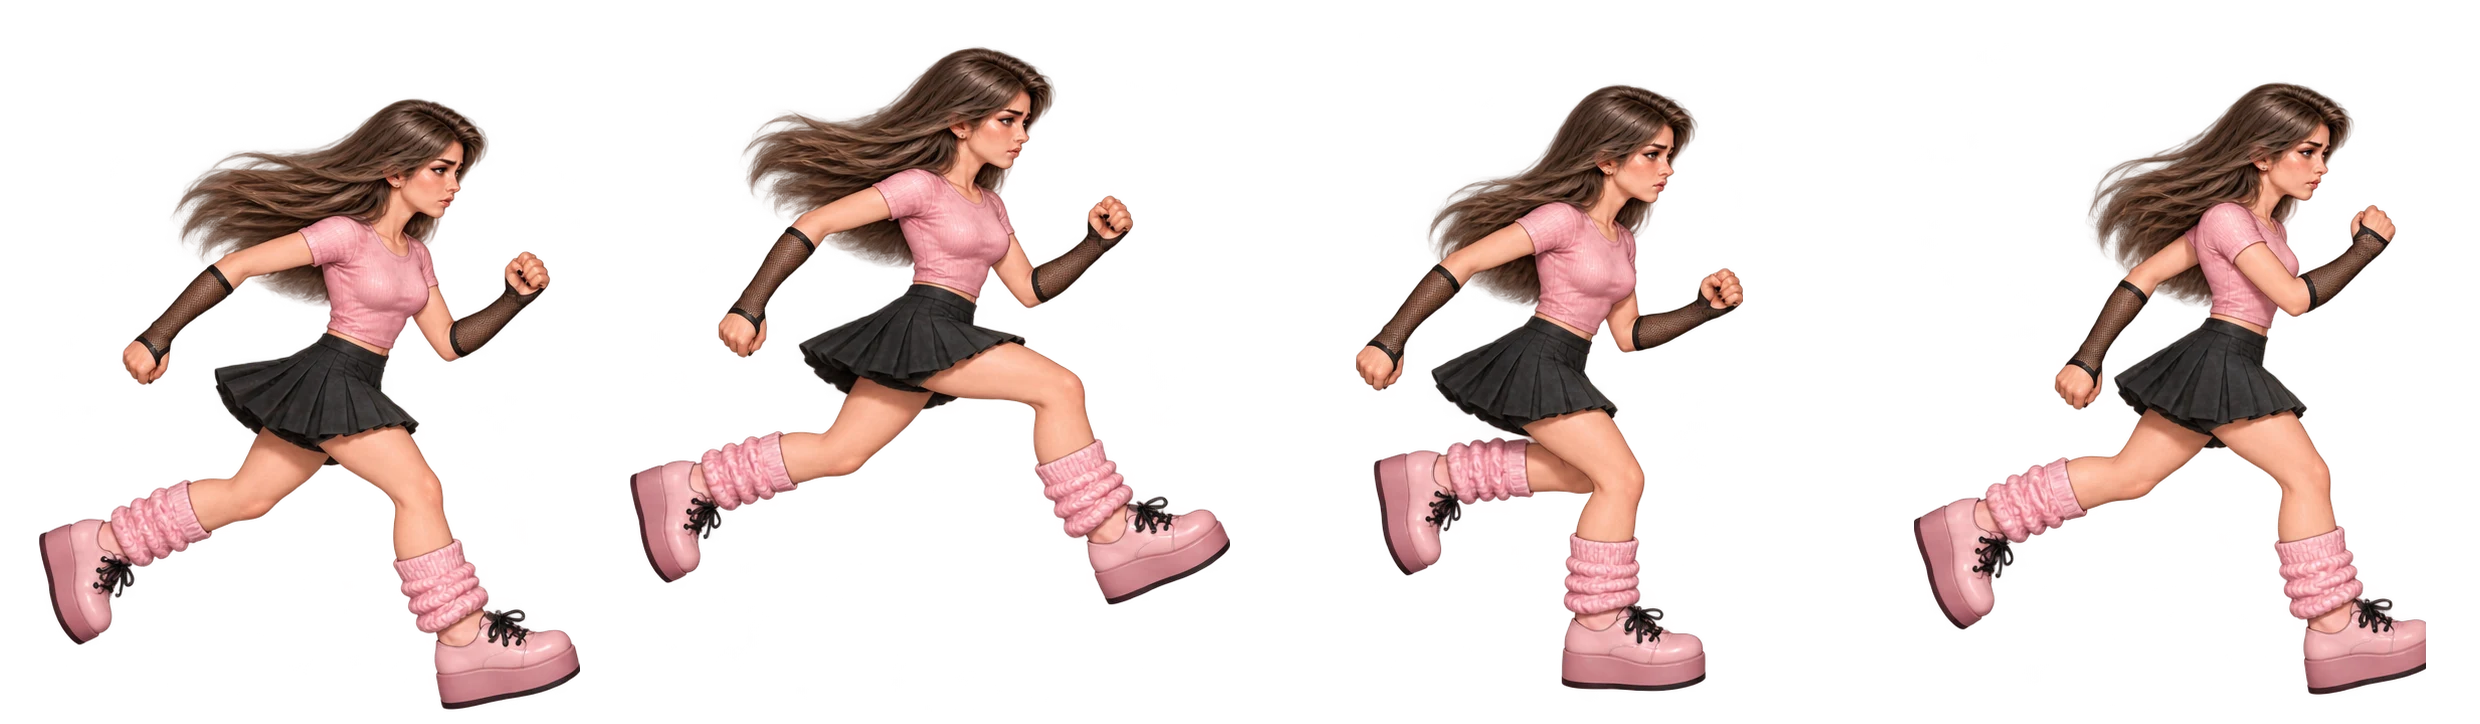
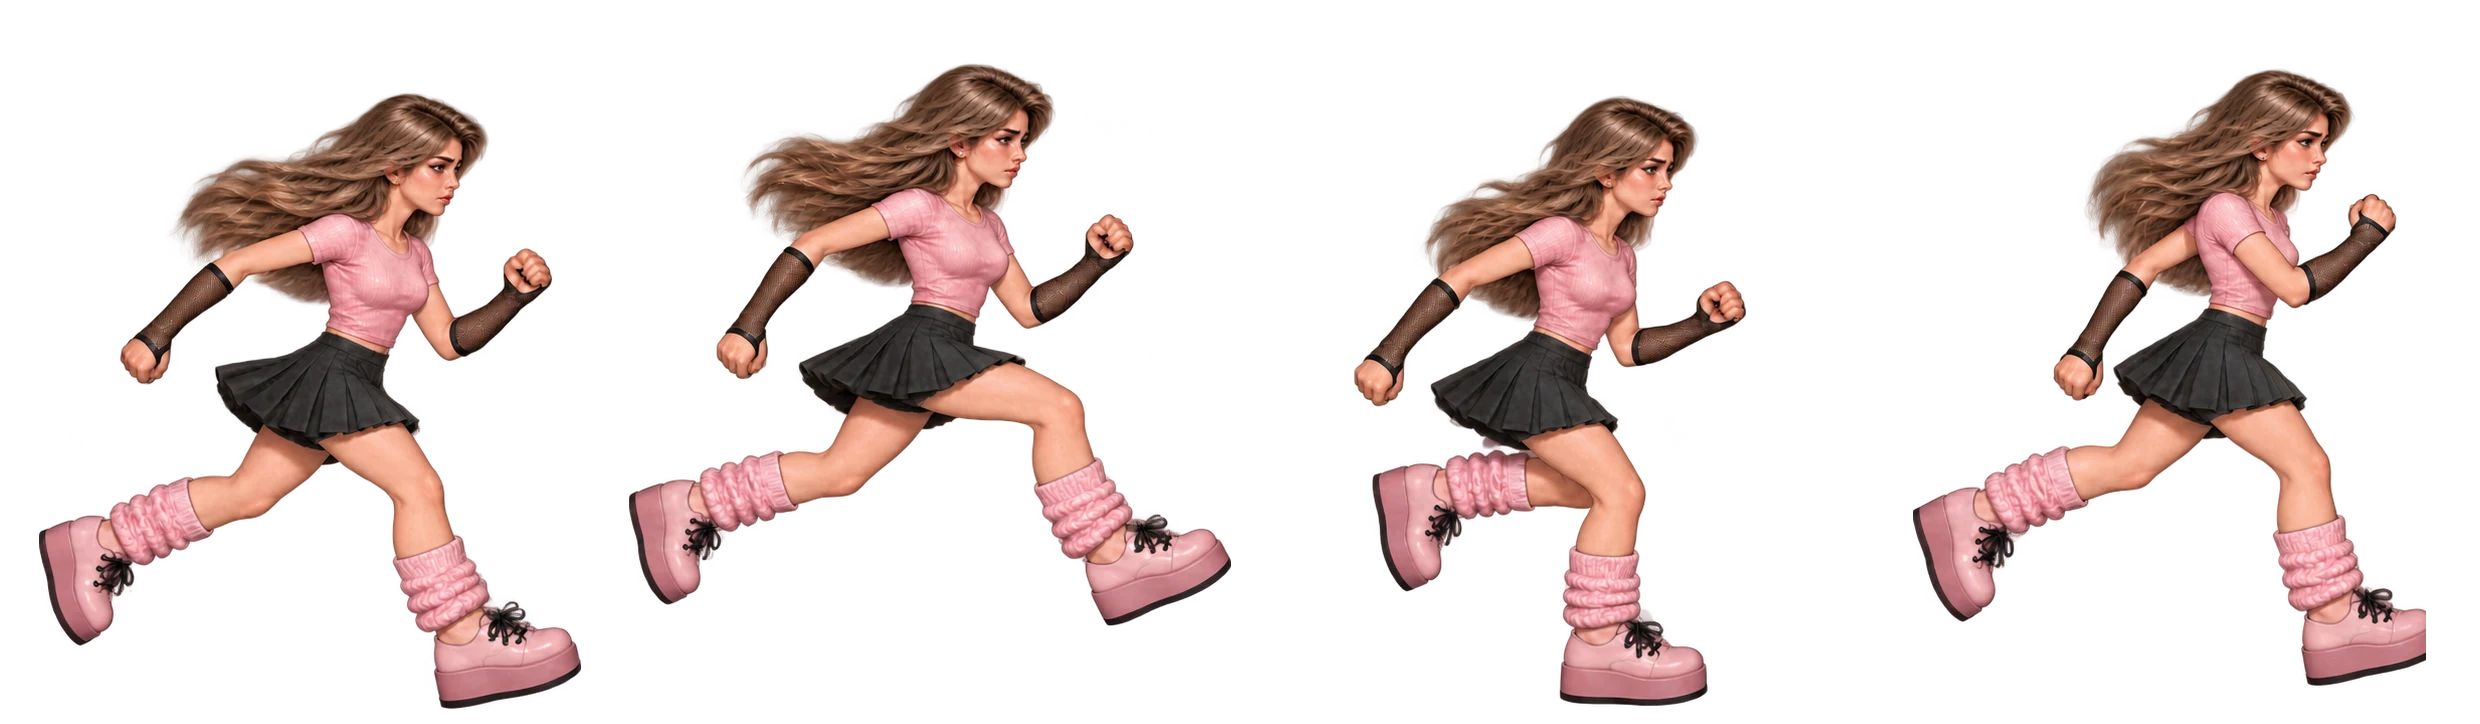
Restore C's lighter wavy hair and update run cycle

diff --git a/game.js b/game.js
@@ -36,7 +36,7 @@ const PEOPLE = {
 };
 
 const order = ["C", "A", "S", "E"];
-const ART_REVISION = "case-20261010-39";
+const ART_REVISION = "case-20261010-40";
 for (const person of Object.values(PEOPLE)) {
   for (const key of Object.keys(person.art)) person.art[key] += `?v=${ART_REVISION}`;
 }

diff --git a/index.html b/index.html
@@ -84,7 +84,7 @@
     </section>
   </main>
 
-  <script src="game.js?v=case-20261010-39"></script>
+  <script src="game.js?v=case-20261010-40"></script>
 </body>
 </html>
 
